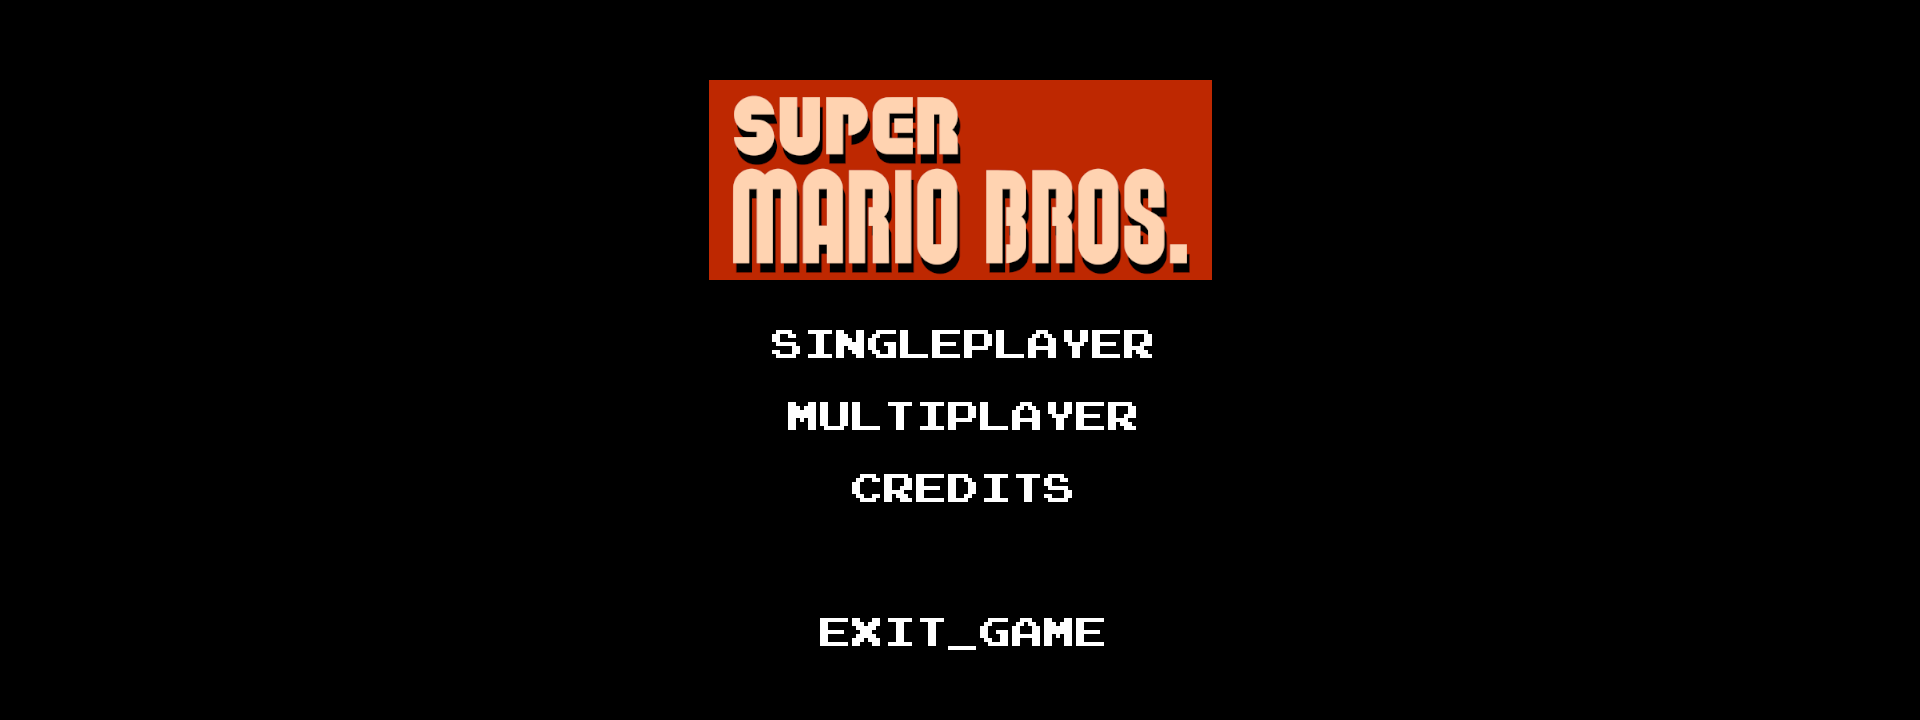
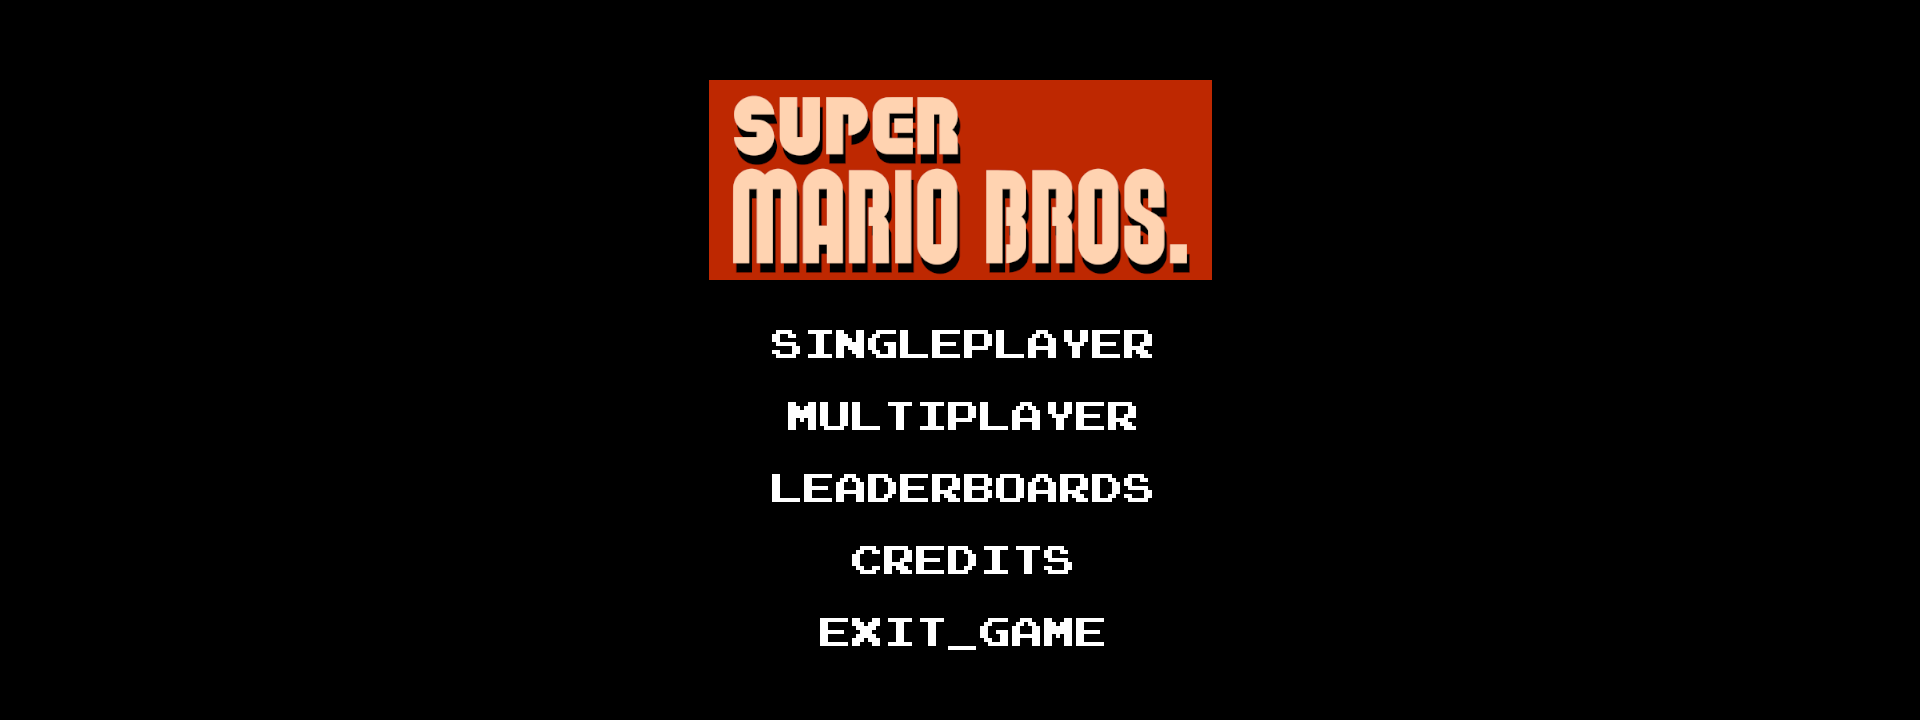
Added leaderboards screen

Changed region(s): [[0.375, 0.6417, 0.5938, 0.7028], [0.4375, 0.7333, 0.5625, 0.7944]]

diff --git a/src/view/UIManager.java b/src/view/UIManager.java
@@ -7,23 +7,26 @@ import control.MapCreator;
 import model.hero.Mario;
 import utils.FontImporter;
 import utils.ImageImporter;
+import view.screens.LeaderboardsMenu;
 import view.screens.MainMenu;
 import view.screens.MultiplayerMenu;
 
 import javax.swing.*;
 import java.awt.*;
 import java.awt.image.BufferedImage;
+import java.util.ArrayList;
 
 /**
  * This manager is responsible for rendering all the
  * components, such as the map and the GUI on the screen.
  *
- * @version 1.1.0
+ * @version 1.2.0
  */
 public class UIManager extends JPanel {
     private final GameEngine engine;
 
     private final MarioCursor marioCursor;
+    private final LeaderboardsMenu leaderboardsMenu;
     private final MainMenu mainMenu;
     private final MultiplayerMenu multiplayerMenu;
 
@@ -33,6 +36,7 @@ public class UIManager extends JPanel {
         this.engine = engine;
 
         this.marioCursor = new MarioCursor();
+        this.leaderboardsMenu = new LeaderboardsMenu();
         this.mainMenu = new MainMenu();
         this.multiplayerMenu = new MultiplayerMenu();
 
@@ -51,6 +55,7 @@ public class UIManager extends JPanel {
 
         if (engine.getGameStatus() == GameStatus.START_SCREEN) showStartScreen(g2D);
         else if (engine.getGameStatus() == GameStatus.CREDITS_SCREEN) showCreditsScreen(g2D);
+        else if (engine.getGameStatus() == GameStatus.LEADERBOARDS) showLeaderboardsScreen(g2D);
         else if (
             engine.getGameStatus() == GameStatus.MULTIPLAYER_LOBBY ||
             engine.getGameStatus() == GameStatus.MULTIPLAYER_HOST ||
@@ -105,6 +110,7 @@ public class UIManager extends JPanel {
      */
     public void changeSelectedAction(ButtonAction input) {
         if (engine.getGameStatus() == GameStatus.START_SCREEN) mainMenu.changeSelection(input);
+        else if (engine.getGameStatus() == GameStatus.LEADERBOARDS) leaderboardsMenu.changeScoresRange(input);
     }
 
     /**
@@ -117,8 +123,12 @@ public class UIManager extends JPanel {
             switch (selection) {
                 case 0 -> engine.createMap("map-01", false);
                 case 1 -> engine.setGameStatus(GameStatus.MULTIPLAYER_LOBBY);
-                case 2 -> engine.setGameStatus(GameStatus.CREDITS_SCREEN);
-                case 3 -> System.exit(0);
+                case 2 -> {
+                    leaderboardsMenu.fetchScores();
+                    engine.setGameStatus(GameStatus.LEADERBOARDS);
+                }
+                case 3 -> engine.setGameStatus(GameStatus.CREDITS_SCREEN);
+                case 4 -> System.exit(0);
             }
 
             mainMenu.setLineNumber(0);
@@ -159,6 +169,22 @@ public class UIManager extends JPanel {
     }
 
     /**
+     * Draws a full-screen single player leaderboard.
+     *
+     * @param g2D The graphics engine.
+     */
+    private void showLeaderboardsScreen(Graphics2D g2D) {
+        BufferedImage screen = ImageImporter.loadImage("leaderboards-screen");
+        g2D.drawImage(screen, (GameEngine.WIDTH - 1920) / 2, 0, null);
+
+        g2D.setFont(FontImporter.loadFont(32));
+
+        ArrayList<String> scores = new ArrayList<>(leaderboardsMenu.getScoresInRange());
+        for (int i = 0; i < scores.size(); i++)
+            g2D.drawString(scores.get(i), 560 + ((GameEngine.WIDTH - 1920) / 2), 290 + 72 * i);
+    }
+
+    /**
      * Draws a full-screen multiplayer waiting lobby page.
      *
      * @param g2D The graphics engine.
@@ -188,7 +214,7 @@ public class UIManager extends JPanel {
         // Draw the Mario cursor
         BufferedImage mario = marioCursor.getCurrentStyle();
 
-        int marioY = mainMenu.getLineNumber() < 3 ? 320 + 72 * mainMenu.getLineNumber() : 608;
+        int marioY = 320 + 72 * mainMenu.getLineNumber();
         g2D.drawImage(mario, 710 + ((GameEngine.WIDTH - 1920) / 2), marioY, null);
     }
 

diff --git a/src/view/screens/LeaderboardsMenu.java b/src/view/screens/LeaderboardsMenu.java
@@ -1,0 +1,52 @@
+package view.screens;
+
+import control.ButtonAction;
+
+import java.util.ArrayList;
+import java.util.List;
+
+/**
+ * The menu screen handling the fetching
+ * of the scores from the web server.
+ *
+ * @version 1.0.0
+ */
+public class LeaderboardsMenu {
+    private ArrayList<String> scores;
+    private int range = 0;
+
+    public void changeScoresRange(ButtonAction input) {
+        int lastValidRange = scores.size() % 5 == 0 ? scores.size() - 5 : scores.size() - scores.size() % 5;
+
+        if (input == ButtonAction.SELECTION_DOWN) {
+            if (range == lastValidRange) range = 0;
+            else range += 5;
+        } else {
+            if (range == 0) range = lastValidRange;
+            else range -= 5;
+        }
+    }
+
+    /**
+     * Retrieves the scores from the web server
+     * and sets a pretty-formatted string array.
+     */
+    public void fetchScores() {
+        // TODO: Needs actual data fetching
+        ArrayList<String> temp = new ArrayList<>();
+        temp.add("1. Player_1         15320");
+        scores = temp;
+    }
+
+    /**
+     * Returns the 5 scores in the
+     * currently selected 5-range set.
+     *
+     * @return A pretty-formatted string array
+     * containing the 5-range sets of scores.
+     */
+    public List<String> getScoresInRange() {
+        int lastValidRange = scores.size() % 5 == 0 ? scores.size() - 5 : scores.size() - scores.size() % 5;
+        return scores.subList(range, range == lastValidRange ? scores.size() : range + 5);
+    }
+}

diff --git a/src/control/GameEngine.java b/src/control/GameEngine.java
@@ -18,7 +18,7 @@ import java.awt.*;
  * initialization and synchronization of the other threads. It also
  * provides some runtime checks that make up the whole game's brain.
  *
- * @version 1.1.0
+ * @version 1.2.0
  */
 public class GameEngine implements Runnable {
     private final static Dimension screenSize = Toolkit.getDefaultToolkit().getScreenSize();
@@ -290,6 +290,9 @@ public class GameEngine implements Runnable {
                 if (uiManager.getMultiplayerMenu().validateServerIp()) gameStatus = GameStatus.MULTIPLAYER_JOIN;
             if (input == ButtonAction.SELECTION_UP) gameStatus = GameStatus.MULTIPLAYER_HOST;
             if (input == ButtonAction.ESCAPE) gameStatus = GameStatus.START_SCREEN;
+        } else if (gameStatus == GameStatus.LEADERBOARDS) {
+            if (input == ButtonAction.SELECTION_DOWN || input == ButtonAction.SELECTION_UP) uiManager.changeSelectedAction(input);
+            if (input == ButtonAction.ENTER || input == ButtonAction.ESCAPE) gameStatus = GameStatus.START_SCREEN;
         } else if (gameStatus == GameStatus.CREDITS_SCREEN) {
             if (input == ButtonAction.ENTER || input == ButtonAction.ESCAPE) gameStatus = GameStatus.START_SCREEN;
         } else if (gameStatus == GameStatus.RUNNING) {

diff --git a/src/control/InputManager.java b/src/control/InputManager.java
@@ -7,7 +7,7 @@ import java.awt.event.KeyListener;
  * Handles all the key presses that the player performs to
  * then notify the performed action to the {@link GameEngine}.
  *
- * @version 1.1.0
+ * @version 1.2.0
  */
 public class InputManager implements KeyListener {
     private final GameEngine engine;
@@ -48,6 +48,9 @@ public class InputManager implements KeyListener {
             if (code >= KeyEvent.VK_NUMPAD0 && code <= KeyEvent.VK_NUMPAD9) engine.receiveIpInput(String.valueOf(code - 96));
             if (code == KeyEvent.VK_PERIOD || code == KeyEvent.VK_DECIMAL) engine.receiveIpInput(".");
             if (code == KeyEvent.VK_BACK_SPACE) engine.receiveIpInput("\b");
+        } else if (engine.getGameStatus() == GameStatus.LEADERBOARDS) {
+            if (code == KeyEvent.VK_UP || code == KeyEvent.VK_W) currentAction = ButtonAction.SELECTION_UP;
+            if (code == KeyEvent.VK_DOWN || code == KeyEvent.VK_S) currentAction = ButtonAction.SELECTION_DOWN;
         } else {
             if (code == KeyEvent.VK_UP || code == KeyEvent.VK_W || code == KeyEvent.VK_SPACE) currentAction = ButtonAction.JUMP;
             if (code == KeyEvent.VK_DOWN || code == KeyEvent.VK_S) currentAction = ButtonAction.CROUCH;

diff --git a/src/view/screens/MainMenu.java b/src/view/screens/MainMenu.java
@@ -6,7 +6,7 @@ import control.ButtonAction;
  * The main menu screen handling the
  * state of the selected action.
  *
- * @version 1.0.0
+ * @version 1.0.1
  */
 public class MainMenu {
     private int lineNumber;
@@ -22,10 +22,10 @@ public class MainMenu {
      */
     public void changeSelection(ButtonAction input) {
         if (input == ButtonAction.SELECTION_DOWN) {
-            if (lineNumber == 3) lineNumber = 0;
+            if (lineNumber == 4) lineNumber = 0;
             else lineNumber++;
         } else {
-            if (lineNumber == 0) lineNumber = 3;
+            if (lineNumber == 0) lineNumber = 4;
             else lineNumber--;
         }
     }

diff --git a/src/control/GameStatus.java b/src/control/GameStatus.java
@@ -3,13 +3,15 @@ package control;
 /**
  * The possible view states.
  *
- * @version 1.1.0
+ * @version 1.2.0
  */
 public enum GameStatus {
     /** The credits screen. */
     CREDITS_SCREEN,
     /** The player died and lost the game. */
     GAME_OVER,
+    /** The leaderboards screen. */
+    LEADERBOARDS,
     /** The player passed the level. */
     MISSION_PASSED,
     /** The player hosts the server and waits for connections. */
